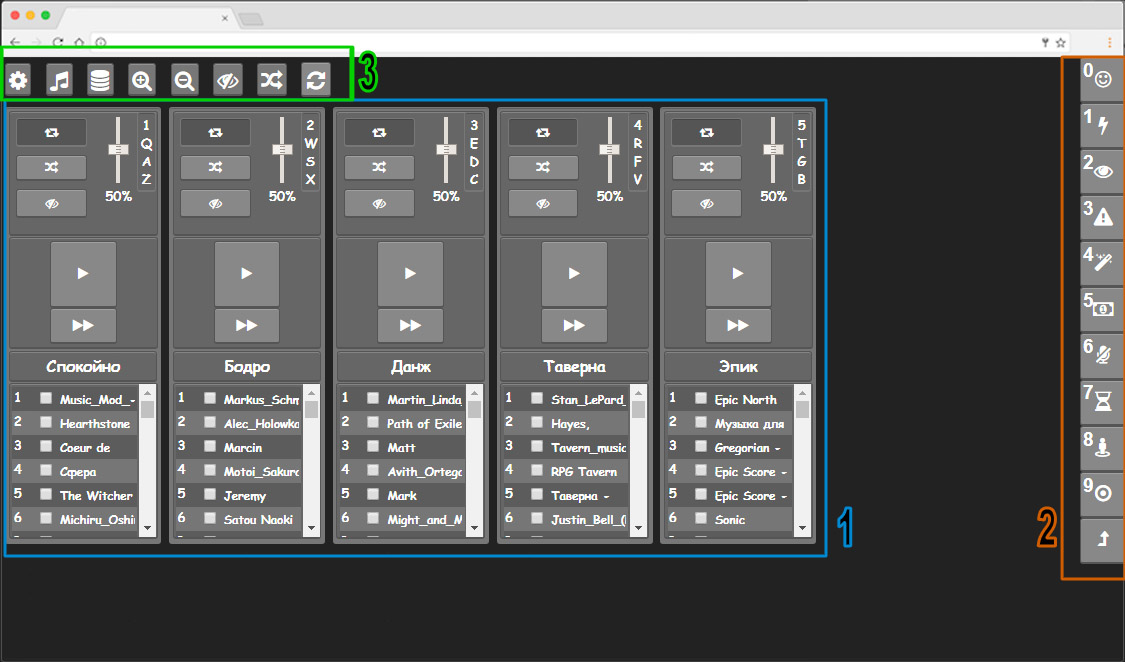
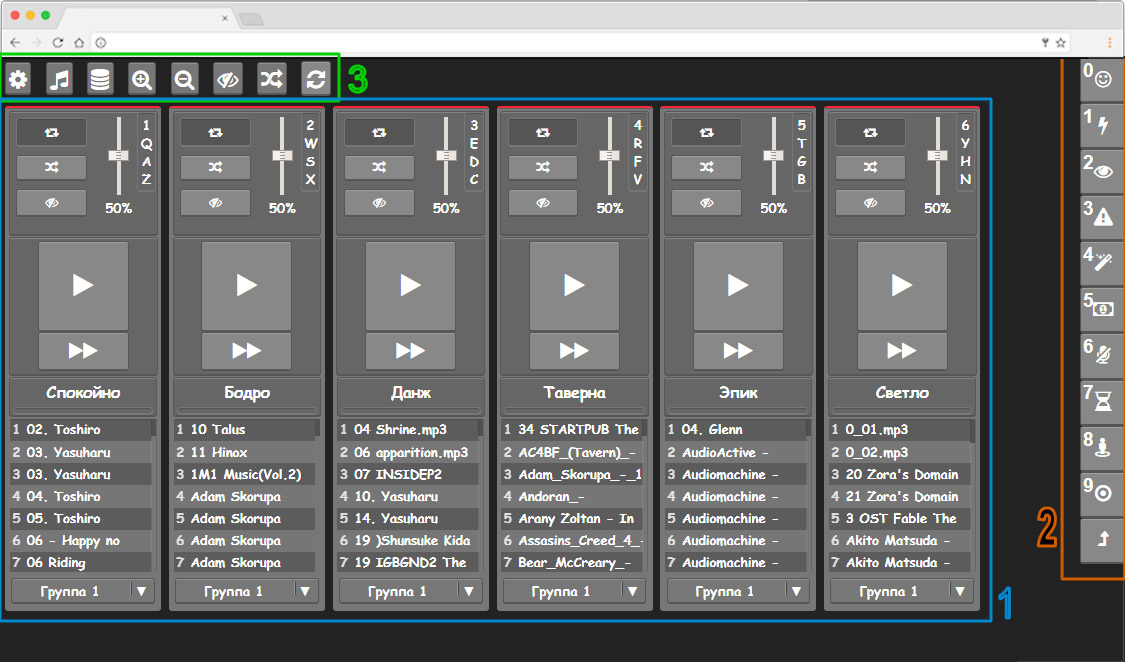
feat[info]: groups added

diff --git a/README.md b/README.md
@@ -147,6 +147,14 @@
 8. Настройка иконки. Для кнопок боковой панели звуков [2] можно назначать иконки. Для этого требуется в поле [8] ввести название иконки из шрифта ["font awesome"](http://fontawesome.io/icons/), чтобы посмотреть все иконки можно нажать на вопросительный знак справа от поля [8]. Если в поле введено название существующей иконки, она отобразиться рядом с названием (как смайлик на скриншоте)
 9. Список файлов в конкретной папке звуков. При нажатии на кнопку в панели звуков [2], будет воспроизведен случайных звук из списка. Цифра справа от названия файла звука показывает, сколько раз звук будет встречаться в общем списке. Чем цифра больше, чем чаще будет проигрываться именно этот звук. 
 
+#### 📙 Группировка плейлистов
+
+В нижней части каждого плейлиста есть выпадающий список с группами. Если нескольким плейлистам назначена одна группа, то при начале воспроизведения музыки из одного плейлиста, все остальные из этой группы будут поставленны на паузу. Иными словами, единовременно может звучать только один плейлист из группы. 
+
+![Группировка плейлистов](/img/screenshots/groups.jpg)
+
+Для удобства, группы обозначаются цветной полоской в верхней части плейлиста.
+
 
 Плеер запоминает все настройки, если вы открываете его одним и тем же браузером, по одному и тому же адресу (из одной и той же папки).
 
